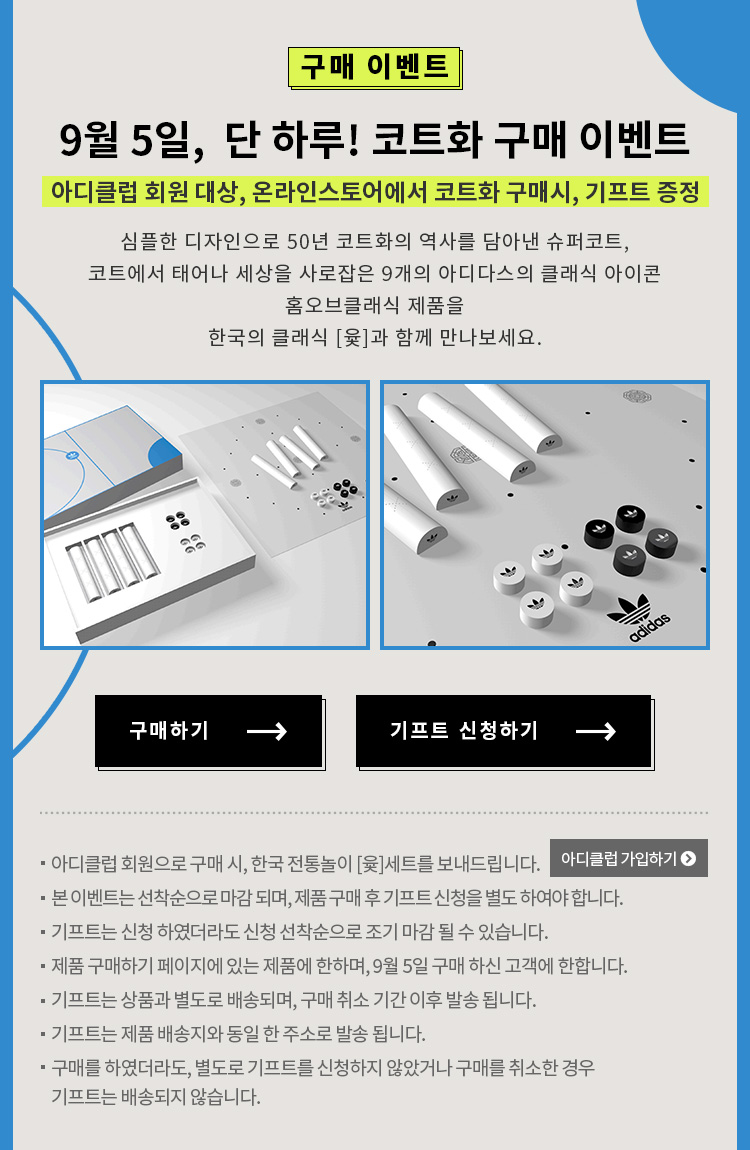
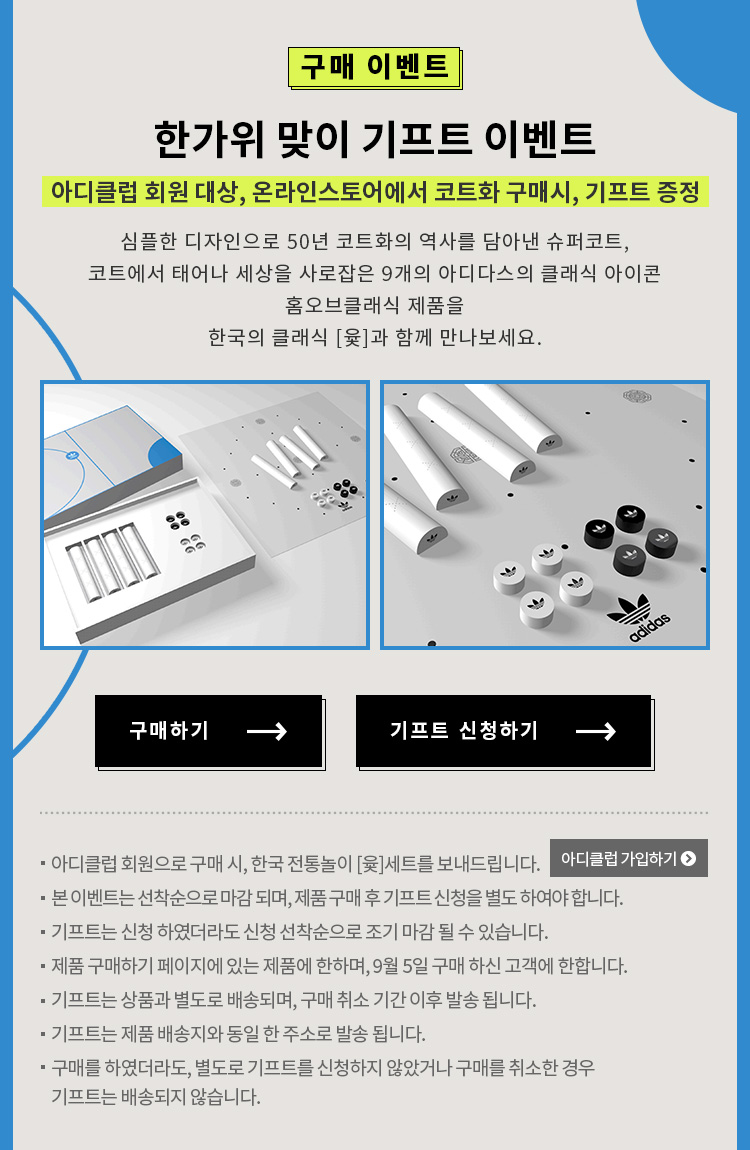
adi_CP_슈퍼코트

Changed region(s): [[0.0613, 0.0913, 0.92, 0.1522]]

diff --git a/mobile/html/adidas/pn/supercourt.html b/mobile/html/adidas/pn/supercourt.html
@@ -41,7 +41,7 @@
                         </div>
                     </div>
                     <div class="evt">
-                        <img src="/images/adidas/2019/event/originals/supercourt/0906/1908_a_supercourt_evt_MO.jpg" alt="">                                        
+                        <img src="/images/adidas/2019/event/originals/supercourt/0903/1908_a_supercourt_evt_MO.jpg" alt="">                                        
                         <a href="https://m.adidas.co.kr/MO/Promotion/landingPage.action?pageNo=982&term=1">구매하기</a>
                         
                         <a href="https://shop.adidas.co.kr/PF070202.action?EVENT_ID=6845" class="gift">기프트 신청하기</a>

diff --git a/mobile/html/adidas/2019/event/originals/supercourt/build/index.html b/mobile/html/adidas/2019/event/originals/supercourt/build/index.html
@@ -480,7 +480,7 @@
                     </div>
                 </div>
                 <div class="evt">
-                    <img src="/images/adidas/2019/event/originals/supercourt/0906/1908_a_supercourt_evt_MO.jpg" alt="">                                        
+                    <img src="/images/adidas/2019/event/originals/supercourt/0903/1908_a_supercourt_evt_MO.jpg" alt="">                                        
                     <a href="https://m.adidas.co.kr/MO/Promotion/landingPage.action?pageNo=982&term=1">구매하기</a>
                     
                     <a href="https://shop.adidas.co.kr/PF070202.action?EVENT_ID=6845" class="gift">기프트 신청하기</a>

diff --git a/mobile/html/adidas/2019/event/originals/supercourt/index.html b/mobile/html/adidas/2019/event/originals/supercourt/index.html
@@ -478,7 +478,7 @@
                     </div>
                 </div>
                 <div class="evt">
-                    <img src="/images/adidas/2019/event/originals/supercourt/0906/1908_a_supercourt_evt_MO.jpg" alt="">                                        
+                    <img src="/images/adidas/2019/event/originals/supercourt/0903/1908_a_supercourt_evt_MO.jpg" alt="">                                        
                     <a href="https://m.adidas.co.kr/MO/Promotion/landingPage.action?pageNo=982&term=1">구매하기</a>
                     
                     <a href="https://shop.adidas.co.kr/PF070202.action?EVENT_ID=6845" class="gift">기프트 신청하기</a>
